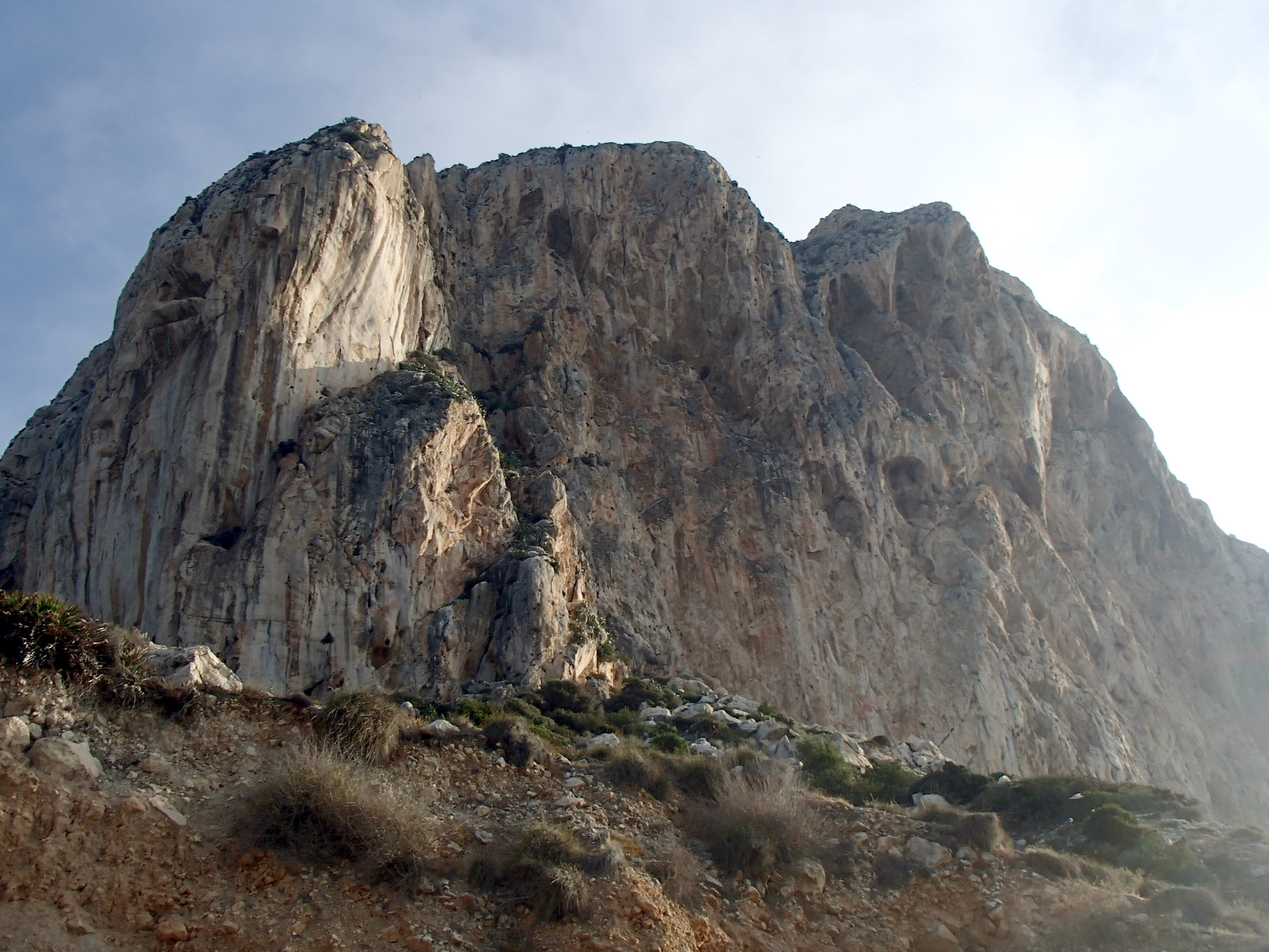
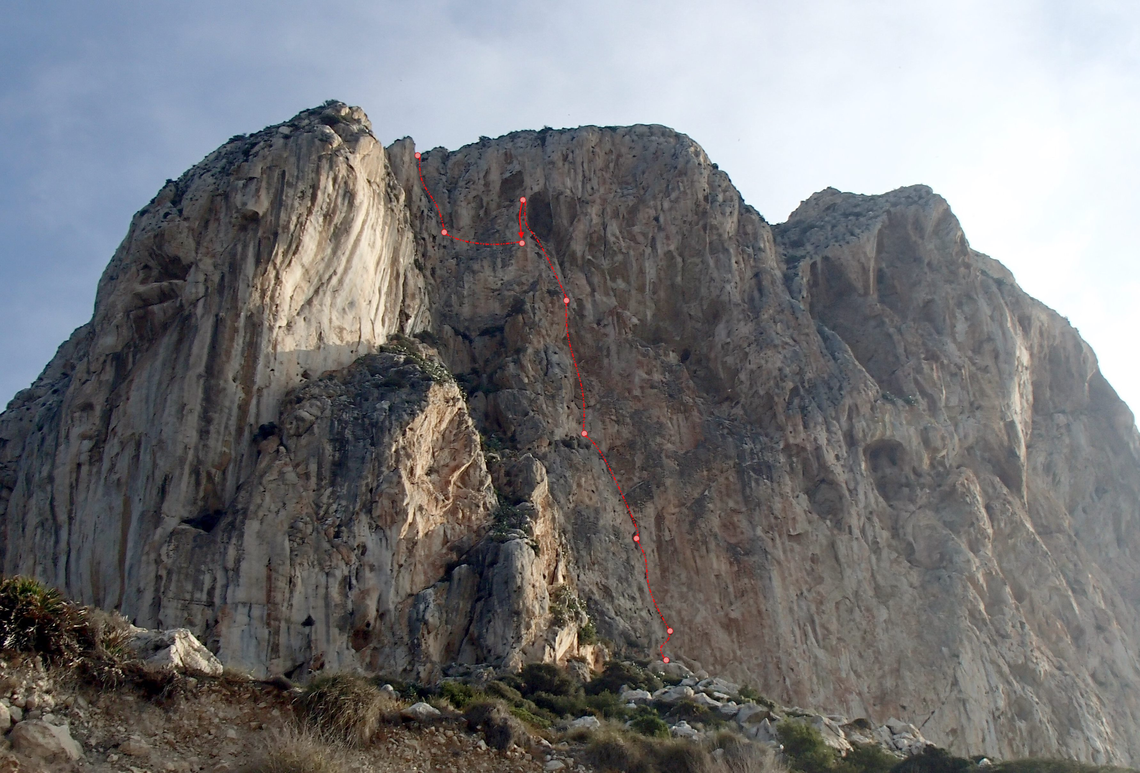
added penon de ifach in spain

diff --git a/data/guidebooks.js b/data/guidebooks.js
@@ -102,7 +102,7 @@ const guideBooks = {
     "title": "Portugal, Rock climbs on the western tip of Europe",
     "type": "guidebook",
     "pg": 34,
-    "description": "A solid guidebook with clear topography that is well organised and covers bouldering, sport and trad. The book lacks detailed descriptions on the routes themselves, but this is probably a good thing for those with a string on-sight ethic. The book is not essential for climbing at Meadinha as the meadinah.com website has far more information but the book is a worthwhile purchase for someone traveling around Portugal, however the price tag feels a bit high all things considered.",
+    "description": "A solid guidebook with clear topography that is well organised and covers bouldering, sport and trad. The book lacks detailed descriptions on the routes themselves, but this is probably a good thing for those with a strong on-sight ethic. The book is not essential for climbing at Meadinha as the meadinah.com website has far more information but the book is a worthwhile purchase for someone traveling around Portugal, however the price tag feels a bit high all things considered.",
     "imgURL": "img/guidebooks/rock-climbs-in-portugal.jpg",
     "link": "",
     "rrp": 34.95,
@@ -251,5 +251,17 @@ const guideBooks = {
     "link": "https://hongkongclimbing.files.wordpress.com/2012/06/lionrock.pdf",
     "rrp": "FREE",
     "guidePrice": "FREE"
+  },
+  {
+    "climbId": 22,
+    "isbn": 9781873341954,
+    "title": "Costa Blanca",
+    "type": "guidebook",
+    "pg": 267,
+    "description": "A brilliant book covering a wide and varied set of crags in sunny Spain. This Rockfax guide covers the climbs around Calpe including Diedre UBSA and many others. A great book for the multi-pitch climber with a penchant for trad. The old edition can be picked up cheap if you are on a budget, but the updated guide covers more routes and areas. Peñón de Ifach is in both versions in detail.",
+    "imgURL": "img/guidebooks/costa-blanca.jpg",
+    "link": "",
+    "rrp": 29.95,
+    "guidePrice": 25
   }
 ]};

diff --git a/data/climbs.js b/data/climbs.js
@@ -485,25 +485,25 @@ const climbsData = {
   },
   {
     "cliff": "Peñón de Ifach",
-    "status": "draft",
+    "status": "publish",
     "id": 22,
     "country": "Spain",
     "county": "Costa Blanca",
-    "routeName": "",
-    "length": "",
-    "pitches": "",
-    "dataGrade": "",
-    "tradGrade": "",
-    "techGrade": "",
+    "routeName": "Diedro UBSA",
+    "length": 228,
+    "pitches": 9,
+    "dataGrade": 6,
+    "tradGrade": "HVS",
+    "techGrade": "5c",
     "uiaaGrade": "",
-    "flag": "",
-    "geoLocation": "",
-    "approchTime": "",
-    "approchDifficulty": "",
-    "rock": "",
-    "intro": "",
-    "approach": "",
-    "incline": "",
-    "face": ""
+    "flag": "spain",
+    "geoLocation": "38.633896,0.074286",
+    "approchTime": 20,
+    "approchDifficulty": 1,
+    "rock": "Limestone",
+    "intro": "The South face of Peñón de Ifach in Costa Blanca offers a great array of climbing. Most of the routes are bolted but a small rack is more or less essential. Diedro UBSA is one of the more popular climbs on the face and provides a long winding adventure including an 8 meter abseil at one point in order to progress the route to the top. The rock is loose in places so remember your helmet. Pleanty of water is also recomended due to the heat you can get on the south face.",
+    "approach": "Peñón is the obvious land mark you see from Calpe. It should also be well signposted. If you drive to the harbour you can park there and take a short walkaround the and scramble up to the start of this rout on the south face. From the summit there should be a path down through the mountain.",
+    "incline": "Slab & Vertical",
+    "face": "S"
   }
 ]};

diff --git a/data/imgs.js b/data/imgs.js
@@ -647,5 +647,29 @@ const climbImgs = {
     "alt": "Location of Meadinha in North Portugal",
     "atributionURL": "http://google.com/maps",
     "attributionText": "Google Map"
+  },
+  {
+    "climbId": 22,
+    "type": "crag",
+    "url": "img/topos/penon/penon-costa-blanca.jpg",
+    "alt": "Peñón de Ifach rising out of the costline of Costa Blanca offers great climbing",
+    "atributionURL": "https://commons.wikimedia.org/wiki/File:Pe%C3%B1%C3%B3n_de_Ifach,_Calpe,_Espa%C3%B1a,_2014-07-01,_DD_13.JPG",
+    "attributionText": "img source"
+  },
+  {
+    "climbId": 22,
+    "type": "tile",
+    "url": "img/tiles/penon-costa-blanca.jpg",
+    "alt": "Peñón de Ifach rising out of the costline of Costa Blanca offers great climbing",
+    "atributionURL": "https://commons.wikimedia.org/wiki/File:Pe%C3%B1%C3%B3n_de_Ifach,_Calpe,_Espa%C3%B1a,_2014-07-01,_DD_13.JPG",
+    "attributionText": "img source"
+  },
+  {
+    "climbId": 22,
+    "type": "topo",
+    "url": "img/topos/penon/penon-topo-for-diedre-UBSA.jpg",
+    "alt": "Diedro UBSA topo on the south face near Calpe",
+    "atributionURL": "https://verticalfever.co.uk/2013/10/24/costa-blanca-round-up/",
+    "attributionText": "original: vertical fever"
   }
 ]};
